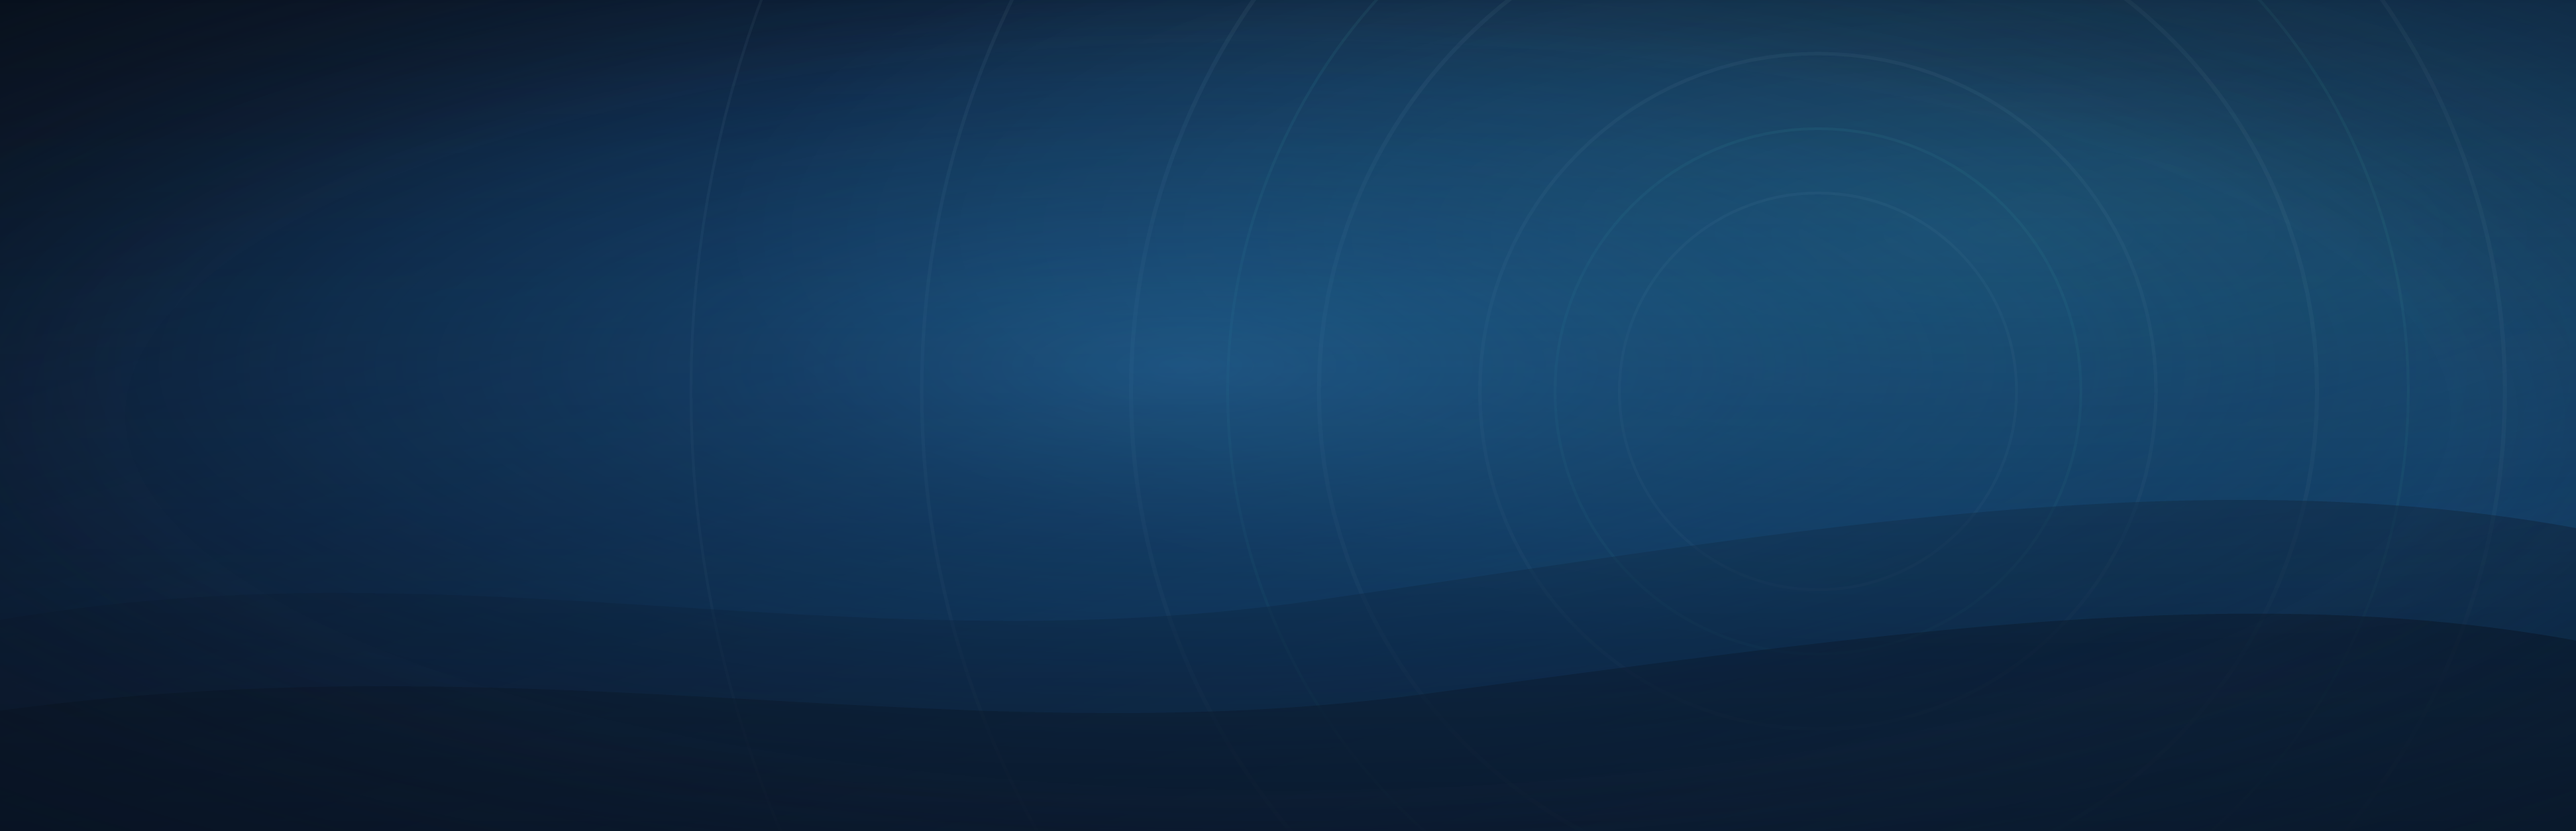
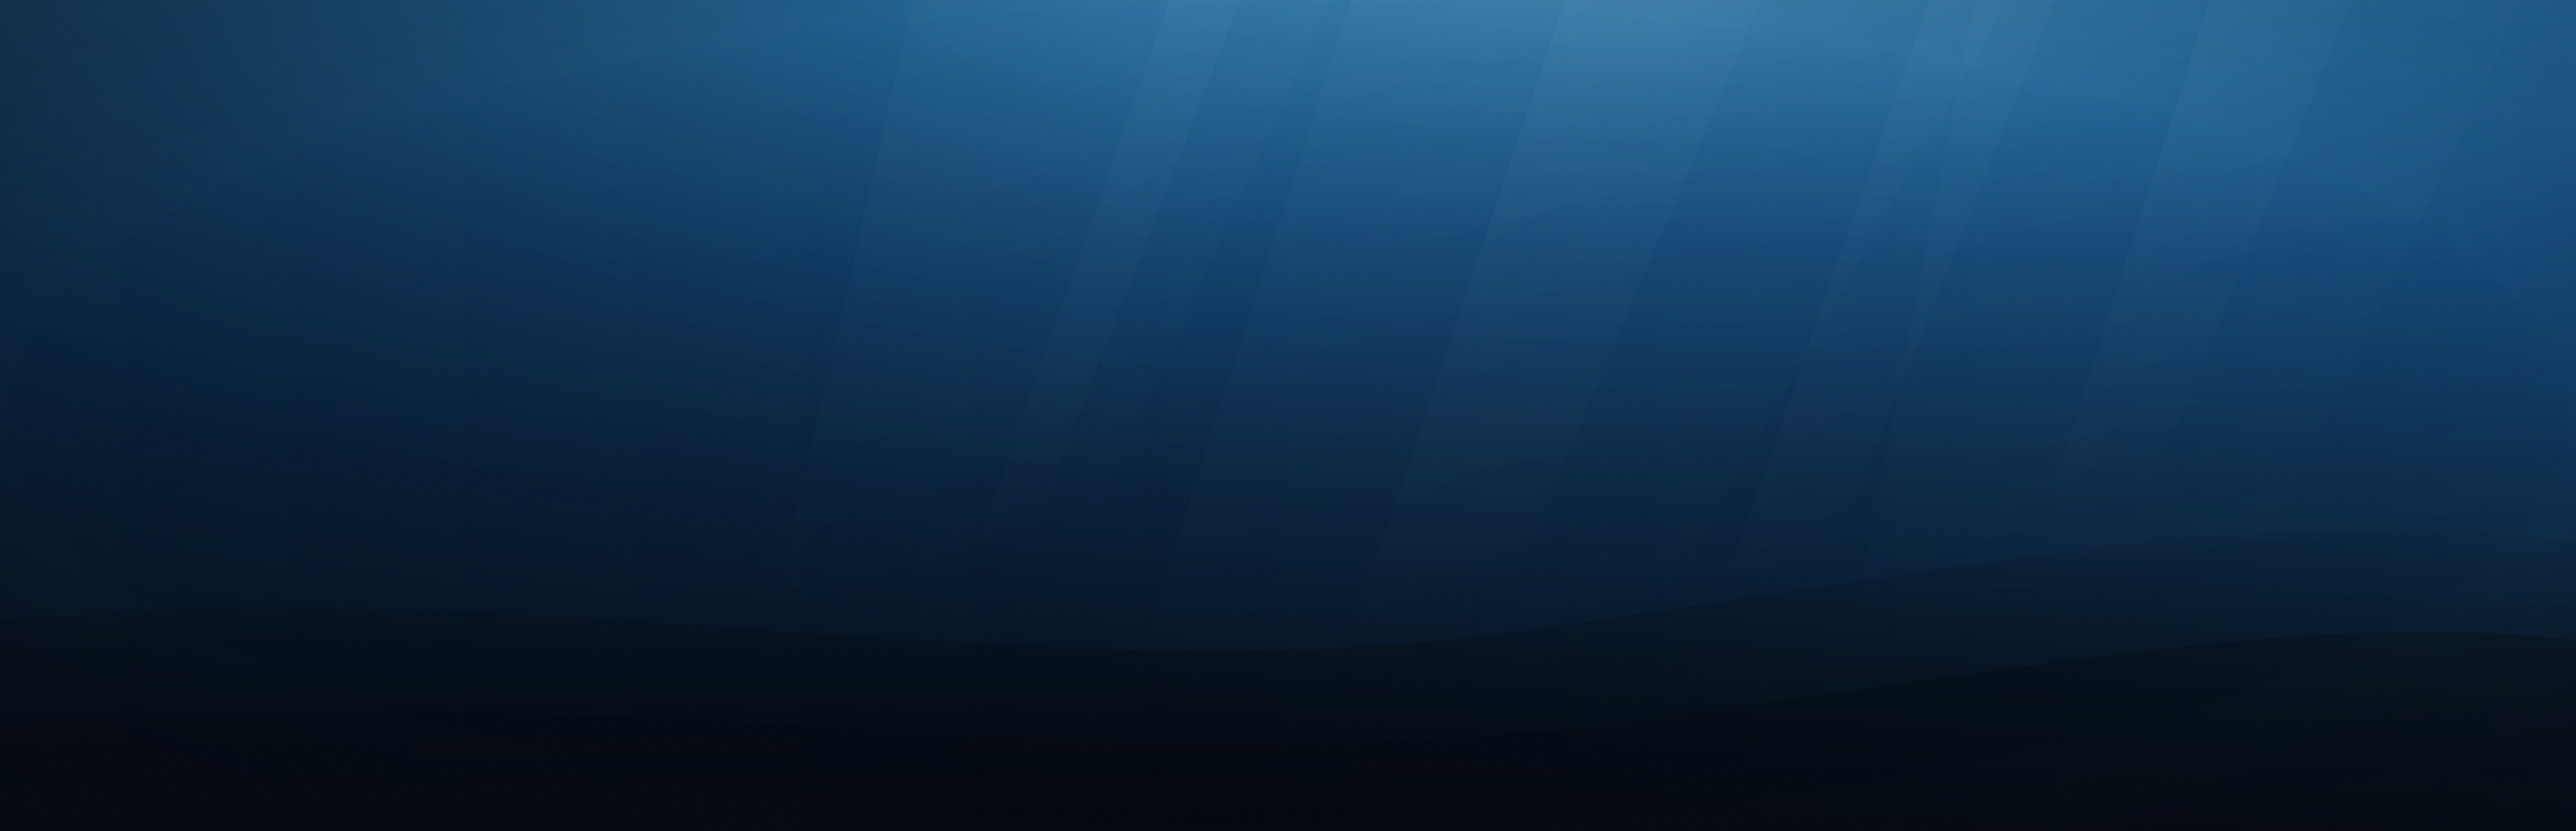
feat(deck): give the Steam entry the cover wall, and light the heroes evenly (#89)
The installer fetches the anime cover wall and pins Steam's logo position to centre; the walls are lit by one even fade instead of a spotlight; the wall's density and lean are per-run flags with derived geometry; the artwork-free hero is rebuilt as a lit field with nothing drawn across it.

diff --git a/scripts/ci/deck-installer.test.ts b/scripts/ci/deck-installer.test.ts
@@ -127,6 +127,10 @@ describe('Deck installer script', () => {
     expect(installer).toMatch(/0\) printf 'default.*1\) printf 'choose.*\*\) printf 'no/s)
   })
 
+  it('can be pointed at a staging copy, so a change can be tried on a Deck before it ships', () => {
+    expect(installer).toContain('SITE="${IZUMI_SITE:-https://flatpak.izumi.watch}"')
+  })
+
   it('never writes the library entry underneath a running Steam', () => {
     // Steam rewrites shortcuts.vdf from memory when it exits, so a write now is lost later.
     expect(installer).toContain('pgrep -x steam')
@@ -179,17 +183,23 @@ describe('artwork the installer downloads', () => {
   })
 
   it('uses a hero with no wordmark in it, because Steam draws the logo on top', () => {
-    // A per-variant hero is a finished composition: cover art, mark AND wordmark. Steam then paints
-    // <appid>_logo.png over it, so the Deck library page showed the izumi wordmark twice.
-    expect(installer).toContain('izumi-hero-plain-1920x620.png')
+    // A per-variant SteamGridDB hero is a finished composition: cover art, mark AND wordmark. Steam
+    // then paints <appid>_logo.png over it, so the Deck library page showed the wordmark twice.
+    expect(installer).toContain('izumi-hero-anime-1920x620.png')
     expect(installer).not.toContain('izumi-hero-1920x620.png')
-    expect(staged).toContain('izumi-hero-plain-1920x620.png')
-    for (const size of ['1920x620', '3840x1240']) {
-      expect(existsSync(join('brand/steamgriddb/hero', `izumi-hero-plain-${size}.png`))).toBe(true)
-    }
-    // The one hero serves every variant, so no variant may reintroduce a wordmarked one.
+    expect(staged).toContain('izumi-hero-anime-1920x620.png')
+    expect(existsSync(join('brand/steamgriddb/hero', 'izumi-hero-anime-1920x620.png'))).toBe(true)
+    // The one hero serves every cover variant, so no variant may reintroduce a wordmarked one.
     const heroLine = installer.split('\n').find((line) => line.includes('hero.png'))!
     expect(heroLine).not.toContain('$VARIANT')
+  })
+
+  it('pins the logo where the hero was built for it', () => {
+    // Steam defaults a shortcut's logo to the bottom left. This hero's shade pool — the only part
+    // of it a white wordmark reliably reads against — is in the middle of the frame.
+    expect(installer).toContain('"pinnedPosition": "CenterCenter"')
+    // Never rewritten: moving the logo is a thing people do, and a re-run must not undo it.
+    expect(installer).toContain('if not os.path.exists(position):')
   })
 
   it('publishes the white wordmark the plain hero is designed around', () => {
@@ -388,7 +398,23 @@ describe.runIf(python && shortcutScript)('Steam shortcut writer', () => {
 
     const grid = readdirSync(join(config, 'grid')).sort()
     const id = expectedAppId >>> 0
-    expect(grid).toEqual([`${id}.png`, `${id}_hero.png`, `${id}_logo.png`, `${id}p.png`].sort())
+    // Four art slots plus the logo-position file, all keyed on the id written into the shortcut.
+    expect(grid).toEqual([`${id}.json`, `${id}.png`, `${id}_hero.png`, `${id}_logo.png`, `${id}p.png`].sort())
+  })
+
+  it('writes the logo position once, and never over one the user has moved', () => {
+    const root = mkdtempSync(join(tmpdir(), 'izumi-steam-'))
+    const config = steamAccount(root, '123456')
+    const userDir = join(root, 'userdata', '123456')
+
+    expect(runShortcutScript([userDir], artwork()).status).toBe(0)
+    const position = join(config, 'grid', `${expectedAppId >>> 0}.json`)
+    expect(JSON.parse(readFileSync(position, 'utf8')).logoPosition.pinnedPosition).toBe('CenterCenter')
+
+    writeFileSync(position, JSON.stringify({ nVersion: 1, logoPosition: { pinnedPosition: 'BottomLeft' } }))
+    expect(runShortcutScript([userDir], artwork()).status).toBe(0)
+    // Someone who dragged their logo somewhere else keeps it through a reinstall.
+    expect(JSON.parse(readFileSync(position, 'utf8')).logoPosition.pinnedPosition).toBe('BottomLeft')
   })
 
   it('keeps the shortcuts the user already had, and backs the file up first', () => {
